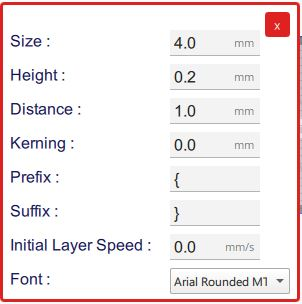
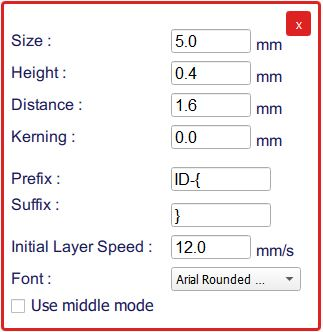
Update infos V1.5.0

Changed region(s): [[0.0, 0.0, 1.0, 1.0]]

diff --git a/qml_qt5/NameIt.qml b/qml_qt5/NameIt.qml
@@ -26,9 +26,9 @@ Window
     flags: Qt.FramelessWindowHint | Qt.WindowStaysOnTopHint | Qt.WindowCloseButtonHint
 
     // Setting the dimensions of the dialog window
-    width: 300
+    width: 320
     height: 330
-    minimumWidth: 300
+    minimumWidth: 320
     minimumHeight: 330
 
     // Position of the window
@@ -38,7 +38,7 @@ Window
     // Define a Window a border (Red for) and a background color
     Rectangle {
         id: bg_rect
-        width: 300
+        width: 320
         height: 330
         color: "#fff"
         border.color: "#D22"
@@ -514,7 +514,7 @@ Window
 	
 	ComboBox {
 		id: fontComboType
-		width: 120
+		width: 130
 		height: UM.Theme.getSize("setting_control").height
 		objectName: "Font_Type"
 		visible:true
@@ -541,15 +541,23 @@ Window
 	CheckBox
 	{
 		id: middleCheckBox
-		text: "<font color='#131151' size='14'>Use middle mode</font>"
+		// text: "<font color='#131151'>Use middle mode</font>"
 		anchors.top: label_font.bottom
 		anchors.topMargin: 10
         anchors.left: parent.left
         anchors.leftMargin: 10
-        //style: UM.Theme.styles.checkbox
+        // style: UM.Theme.styles.checkbox
 
 		checked: middleInput
 		onClicked: manager.middleEntered(checked)
 		
+		Text {
+			height: 12	
+			x: 20
+			y: -2
+			text: "Use middle mode"
+			font.pointSize: 12
+			color: "#131151"
+		}		
 	}
 }

diff --git a/NameIt.py b/NameIt.py
@@ -863,6 +863,7 @@ class NameIt(QObject, Extension):
         combined.apply_transform(trimesh.transformations.scale_matrix(self._size, origin, DirY))
         combined.apply_transform(trimesh.transformations.scale_matrix(self._height, origin, DirZ))
         
+        # Mirror the text for option Middle
         if self._middle :
             combined.apply_transform(trimesh.transformations.reflection_matrix(origin, DirX))
             
